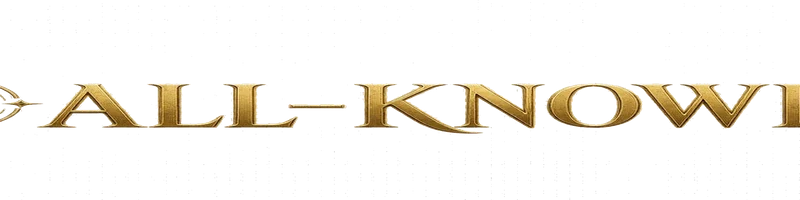
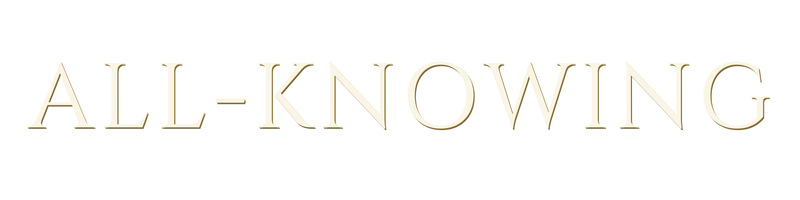
Task 198: readable active tabs, full ALL-KNOWING wordmark

Changed region(s): [[0.0, 0.3, 1.0, 0.69]]

diff --git a/artifacts/all-knowing/src/shell/activeTabs.guard.test.ts b/artifacts/all-knowing/src/shell/activeTabs.guard.test.ts
@@ -1,0 +1,78 @@
+import { readFileSync } from 'node:fs'
+import { describe, expect, it } from 'vitest'
+
+/**
+ * Task 198 §1/§3 — an active section or sub-tab must never paint its label the
+ * same colour as its own background (the "solid gold block with gold text" bug).
+ *
+ * The shell styles are split across two files (`index.css`, then `ui/ui.css`,
+ * per `main.tsx`), and the active-tab rules appear in both. Whichever file wins
+ * by source order, the *effective* colour/background pair must stay readable, so
+ * this guard resolves the cascade for both possible orders and fails if any one
+ * of them yields gold-on-gold.
+ */
+
+const read = (p: string) => readFileSync(new URL(p, import.meta.url), 'utf8')
+
+const INDEX = read('../index.css')
+const UI = read('../ui/ui.css')
+
+const VARS: Record<string, string> = {
+  '--gold': '#c9a227',
+  '--gold-dim': '#8a7018',
+  '--bg-raised': '#14110c',
+  '--line': '#3a3120',
+  '--line-soft': '#2a2418',
+  '--bg': '#0b0906',
+}
+
+/** Last declaration of `prop` for `selector` in one stylesheet. */
+function decl(css: string, selector: string, prop: string): string | undefined {
+  const body = css.replace(/\/\*[\s\S]*?\*\//g, '')
+  let found: string | undefined
+  for (const m of body.matchAll(/([^{}]+)\{([^{}]*)\}/g)) {
+    const selectors = m[1].split(',').map((s) => s.trim())
+    if (!selectors.includes(selector)) continue
+    for (const d of m[2].split(';')) {
+      const [name, ...rest] = d.split(':')
+      if (!name || !rest.length) continue
+      if (name.trim() === prop) found = rest.join(':').trim()
+    }
+  }
+  return found
+}
+
+function resolve(value: string | undefined): string | undefined {
+  if (value == null) return undefined
+  const v = value.trim()
+  const varMatch = v.match(/^var\((--[a-z-]+)\)$/i)
+  return varMatch ? VARS[varMatch[1]] : v.toLowerCase()
+}
+
+/** Effective colour/background for a selector across a file order. */
+function effective(selector: string, order: string[]) {
+  let color: string | undefined
+  let background: string | undefined
+  for (const css of order) {
+    const c = decl(css, selector, 'color')
+    if (c != null) color = resolve(c)
+    const b = decl(css, selector, 'background') ?? decl(css, selector, 'background-color')
+    if (b != null) background = resolve(b)
+  }
+  return { color, background }
+}
+
+describe('Task 198 §3: active tab text colour never equals its background', () => {
+  const ACTIVE_TABS = ['.section-tabs button.active', '.subtabs button.active']
+
+  for (const selector of ACTIVE_TABS) {
+    it(`${selector} stays readable whichever stylesheet wins`, () => {
+      for (const order of [[INDEX, UI], [UI, INDEX]]) {
+        const { color, background } = effective(selector, order)
+        expect(color, `${selector} colour`).toBeTruthy()
+        expect(background, `${selector} background`).toBeTruthy()
+        expect(color, `${selector} must not paint text on its own colour`).not.toBe(background)
+      }
+    })
+  }
+})

diff --git a/artifacts/all-knowing/src/index.css b/artifacts/all-knowing/src/index.css
@@ -190,7 +190,8 @@ button { cursor: pointer; }
 .brand-mark {
   flex: none;
   width: 144px;
-  height: 36px;
+  aspect-ratio: 4 / 1;
+  max-width: 100%;
   padding: 0;
   border: 0;
   background: transparent url('/brand/wordmark.webp') left center / contain no-repeat;
@@ -205,7 +206,7 @@ button { cursor: pointer; }
   letter-spacing: 0.12em;
   text-transform: uppercase;
 }
-.section-tabs button.active { color: var(--gold); border-color: var(--line); background: #1c1811; }
+.section-tabs button.active { color: var(--bg-raised); border-color: var(--gold); background: var(--gold); }
 .header-search { flex: 1; }
 .char-chip {
   flex: none;
@@ -283,7 +284,7 @@ button { cursor: pointer; }
   text-transform: uppercase;
   white-space: nowrap;
 }
-.subtabs button.active { color: var(--gold); border-color: var(--gold-dim); }
+.subtabs button.active { color: var(--bg-raised); border-color: var(--gold); background: var(--gold); }
 .map-controls { flex: none; padding: 8px 16px 0; }
 
 /* Task 103 §10: the dock is a flex column. The header (face + notes +
@@ -1507,7 +1508,7 @@ a.ext { color: var(--gold); font-size: 12px; letter-spacing: 0.06em; text-transf
   .char-level { font-size: 11px; white-space: nowrap; }
   .area-chip { max-width: 110px; min-height: 40px; padding: 4px 8px; }
   .search-toggle { min-width: 44px; min-height: 44px; padding: 0; justify-content: center; }
-  .brand-mark { width: 108px; height: 27px; }
+  .brand-mark { width: 108px; }
   .subtabs { padding: 6px 10px; }
   .map-controls { display: none; }
 
